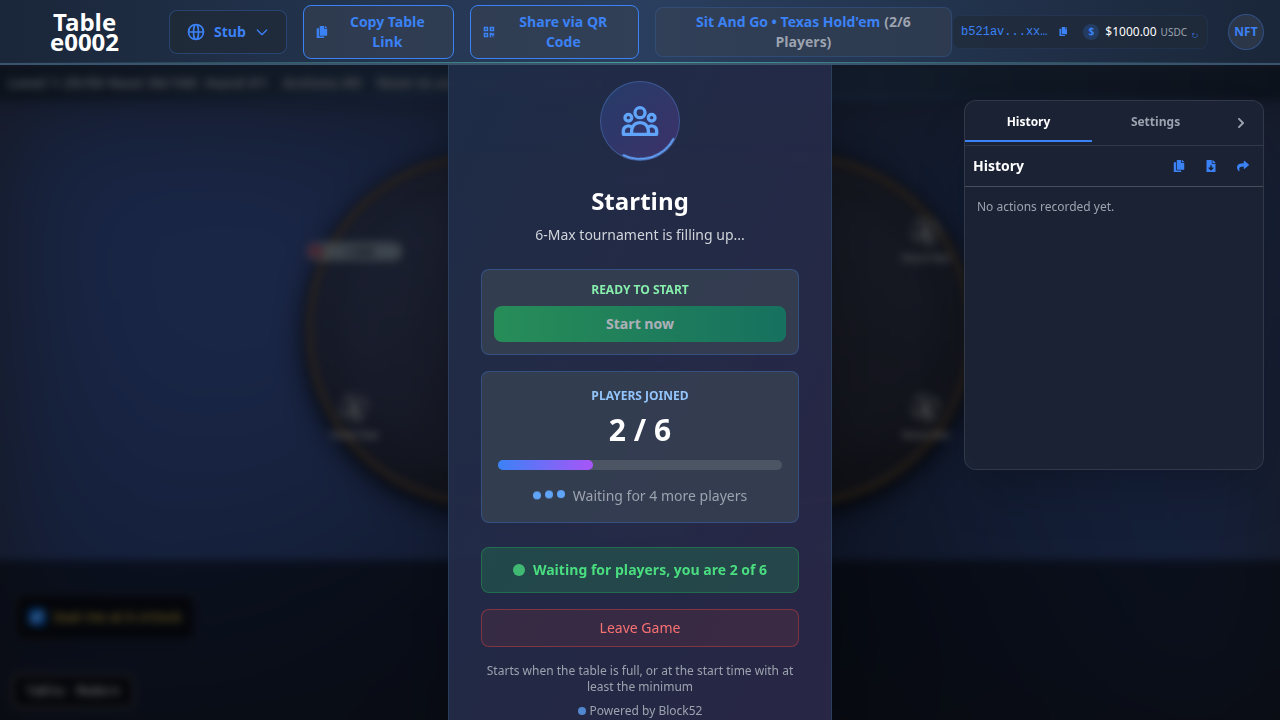
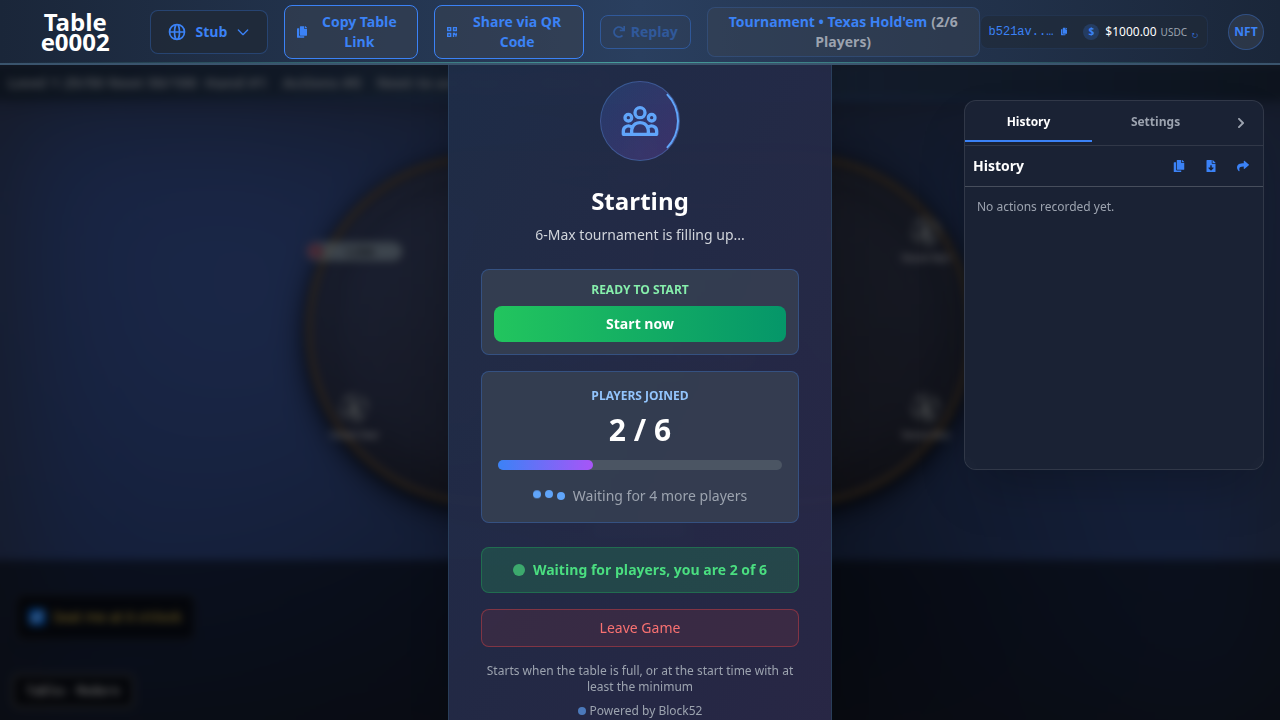
fix(sng): enable "Start now" on the start time and minimum players, not on the engine offering start (#830) (#831)
The chain stores the legal actions the engine computed at the LAST
transaction. While a scheduled tournament waits for its start time nobody
acts, so start never appears in legalActions and the button (gated on it
being offered) never enabled; the automatic start never fired either. Seen
on mainnet with two seated, minimum two, start time passed.

Any registered player may now press Start now once the UI's own phase is
"ready" (minimum reached, start time passed); the chain validates the
action against the block time and the field, and a refusal shows under the
button. The automatic send stays for the case where a refresh does carry
the offer.

e2e: the ready step asserts the button is enabled and presses it; the
stub records START and deals the field.

Claude-Session: https://claude.ai/code/session_01Mpt96LYLijAoiRKdg8Bjtn

Changed region(s): [[0.125, 0.0, 0.8125, 0.0917], [0.375, 0.4278, 0.625, 0.4889], [0.0312, 0.0, 0.0938, 0.0917]]

diff --git a/src/components/playPage/SitAndGoWaitingModal.tsx b/src/components/playPage/SitAndGoWaitingModal.tsx
@@ -31,11 +31,16 @@ const SitAndGoWaitingModal: React.FC<SitAndGoWaitingModalProps> = ({ tableId, on
     const { currentNetwork } = useNetwork();
     const { legalActions } = usePlayerLegalActions();
 
-    // Scheduled start (poker-vm#2680): a clock for the countdown, the phase,
-    // and START once the engine offers it. Any registered client sends START
-    // automatically the moment it is legal; the button is the manual backup.
-    // The first START in a block wins and the rest are refused as already
-    // started, which is harmless.
+    // Scheduled start (poker-vm#2680): a clock for the countdown and the phase.
+    // Once the start time has passed with the minimum registered ("ready"),
+    // ANY registered player may press "Start now" (ui#830): the chain checks
+    // the block time and the field when the action lands, and a refusal shows
+    // under the button. The button is NOT gated on the engine offering START
+    // in legalActions — the chain stores the legal actions as of the last
+    // transaction, so while everyone waits they never include START. If a
+    // refresh does carry the offer, the client sends START by itself. The
+    // first START in a block wins; the rest are refused as already started,
+    // which is harmless.
     const scheduled = isScheduledSng(gameOptions);
     const [nowMs, setNowMs] = useState(() => Date.now());
     useEffect(() => {
@@ -183,7 +188,7 @@ const SitAndGoWaitingModal: React.FC<SitAndGoWaitingModalProps> = ({ tableId, on
                                     <button
                                         type="button"
                                         onClick={() => void sendStart()}
-                                        disabled={!startOffered || isStarting}
+                                        disabled={isStarting}
                                         className="mt-2 w-full py-2 px-4 rounded-lg bg-gradient-to-r from-green-500 to-emerald-600 text-white text-sm font-semibold hover:opacity-90 transition-opacity disabled:opacity-60 disabled:cursor-not-allowed"
                                         data-testid="start-tournament-button"
                                     >

diff --git a/packages/e2e/tests/scheduled-sng.spec.ts b/packages/e2e/tests/scheduled-sng.spec.ts
@@ -98,19 +98,15 @@ test("table: register → countdown → ready → START → cancelled", async ({
     });
     const panel = page.getByTestId("scheduled-start-panel");
     await expect(panel).toContainText("READY TO START", { timeout: 10_000 });
-    await expect(page.getByTestId("start-tournament-button")).toBeDisabled(); // not offered yet
+    // Enabled on the start time + minimum alone (ui#830): the stored legal
+    // actions date from the last transaction and never carry START while
+    // everyone waits, so the button must not depend on them.
+    await expect(page.getByTestId("start-tournament-button")).toBeEnabled();
     await page.screenshot({ path: `${SHOTS}scheduled-sng-ready.png` });
   });
 
-  await test.step("START is offered: the client sends it and the field starts", async () => {
-    await inject({
-      ...base,
-      gameOptions: { ...options, scheduledStartTime: Date.now() - 5_000 },
-      players: [
-        player("b521stubbot00000000000000000000000000000bot", botSeat),
-        player(TEST_ADDRESS, mySeat, [{ action: "start", min: "0", max: "0", index: 1 }]),
-      ],
-    });
+  await test.step("any registered player presses Start now: START is sent and the field starts", async () => {
+    await page.getByTestId("start-tournament-button").click();
     // The waiting modal leaves once the stub records START and deals everyone in.
     await expect(page.getByTestId("scheduled-start-panel")).toBeHidden({ timeout: 20_000 });
     const after = (await stubState()).gameState as Json;
